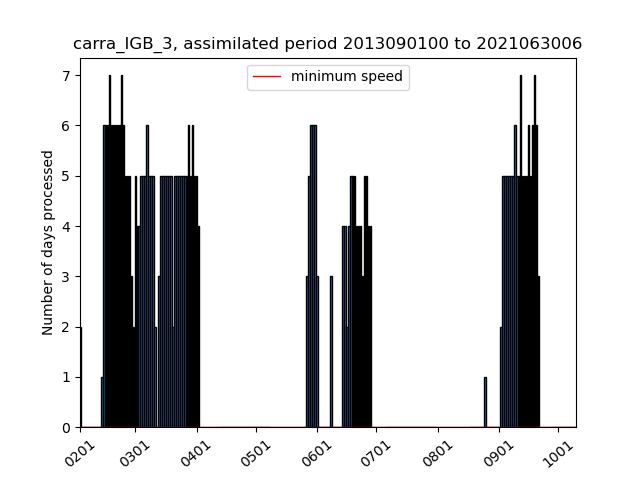
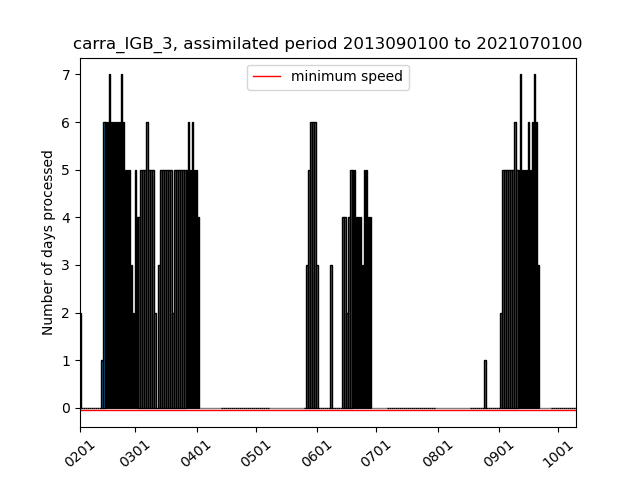
update repo

diff --git a/current_state_sims.html b/current_state_sims.html
@@ -2,18 +2,18 @@
 <h1>Estimated completion dates and simulation speeds</h1>
 <p>Stream (production) completion date based on 30d (7d) moving avg speed</p>
 <p><a href="https://docs.google.com/document/d/1zDKAxuEXYnWWYzT3SZnZwY5WW8nodUMeYRjAGz46coc/edit#">Details of the calculation of the completion dates</a></p>
-<p>Last update: 2021/10/11 12:40:50 UTC</p>
+<p>Last update: 2021/10/11 18:42:12 UTC</p>
 <p>Total progress CARRA: 99.55% <a href="https://hirlam.org/portal/CARRA/Progress/GanntChart_CARRA.html"> (see detailed progress meter in Gantt chart) </a></p>
 <p>Total progress PANARCTIC: 91.67% </p>
 <p><a href="https://hirlam.org/portal/CARRA/Progress/waiting_times.html"> Queue waiting times for all streams</a></p>
 <p><a href="https://hirlam.org/portal/CARRA/Progress/mars_status.html"> MARS archive throughput </a></p>
 <html><table border="1"><tr><th>expId</th><th>Current assimilated date</th><th>End date of stream </th><th> Completion date</th><th> Avg. throughput (7d) </th> <th>Avg. throughput (30d) </th> <th> Remarks</tr>
-<tr bgcolor="#FFFF00"><td>carra_NE_3</td><td>2021063018</td><td>2021063021</td><td>2021101112</td><td>(0.0) days/day</td><td>(1.87) days/day</td><td>Inactive the past week</tr>
+<tr bgcolor="#33FF38"><td>carra_NE_3</td><td>2021070100</td><td>2021063021</td><td>2021101105</td><td>(0.0) days/day</td><td>(1.87) days/day</td><td>Stream finished</tr>
 <tr bgcolor="#33FF38"><td>carra_NE_4</td><td>1992090100</td><td>1992083021</td><td>Finished on 20210824</td><td>(0.0) days/day</td><td>(0.0) days/day</td><td>Stream finished</tr>
 <tr bgcolor="#33FF38"><td>carra_NE_5</td><td>1994090100</td><td>1994083021</td><td>Finished on 20210824</td><td>(0.0) days/day</td><td>(0.0) days/day</td><td>Stream finished</tr>
-<tr bgcolor="#33FF38"><td>carra_NE_6</td><td>1997070100</td><td>1997063021</td><td>2021101010</td><td>(0.0) days/day</td><td>(0.9) days/day</td><td>Stream finished</tr>
-<tr bgcolor="#FFFF00"><td>carra_IGB_3</td><td>2021063006</td><td>2021063021</td><td>2021101112</td><td>(0.0) days/day</td><td>(2.0) days/day</td><td>Inactive the past week</tr>
+<tr bgcolor="#33FF38"><td>carra_NE_6</td><td>1997070100</td><td>1997063021</td><td>2021101016</td><td>(0.0) days/day</td><td>(0.9) days/day</td><td>Stream finished</tr>
+<tr bgcolor="#33FF38"><td>carra_IGB_3</td><td>2021070100</td><td>2021063021</td><td>2021101106</td><td>(0.0) days/day</td><td>(2.0) days/day</td><td>Stream finished</tr>
 <tr bgcolor="#33FF38"><td>carra_IGB_4</td><td>1992090100</td><td>1992083021</td><td>Finished on 20210907</td><td>(0.0) days/day</td><td>(0.0) days/day</td><td>Stream finished</tr>
-<tr bgcolor="#33FF38"><td>carra_IGB_5</td><td>1994090100</td><td>1994083021</td><td>2021101020</td><td>(0.0) days/day</td><td>(2.9) days/day</td><td>Stream finished</tr>
-<tr bgcolor="#FFA500"><td>carra_IGB_6</td><td>1997022409</td><td>1997063021</td><td>2021110118</td><td>(5.86) days/day</td><td>(5.93) days/day</td><td>Completion date after project end (20211031)</tr>
-<tr bgcolor="#33FF38"><td>carra_pan</td><td>2018090100</td><td>2018090100</td><td>2021101112</td><td>(2.43) days/day</td><td>(3.17) days/day</td><td>Stream finished</tr>
+<tr bgcolor="#33FF38"><td>carra_IGB_5</td><td>1994090100</td><td>1994083021</td><td>2021101102</td><td>(0.0) days/day</td><td>(2.9) days/day</td><td>Stream finished</tr>
+<tr bgcolor="#FFA500"><td>carra_IGB_6</td><td>1997022512</td><td>1997063021</td><td>2021110120</td><td>(5.86) days/day</td><td>(5.93) days/day</td><td>Completion date after project end (20211031)</tr>
+<tr bgcolor="#33FF38"><td>carra_pan</td><td>2018090100</td><td>2018090100</td><td>2021101118</td><td>(2.43) days/day</td><td>(3.17) days/day</td><td>Stream finished</tr>
